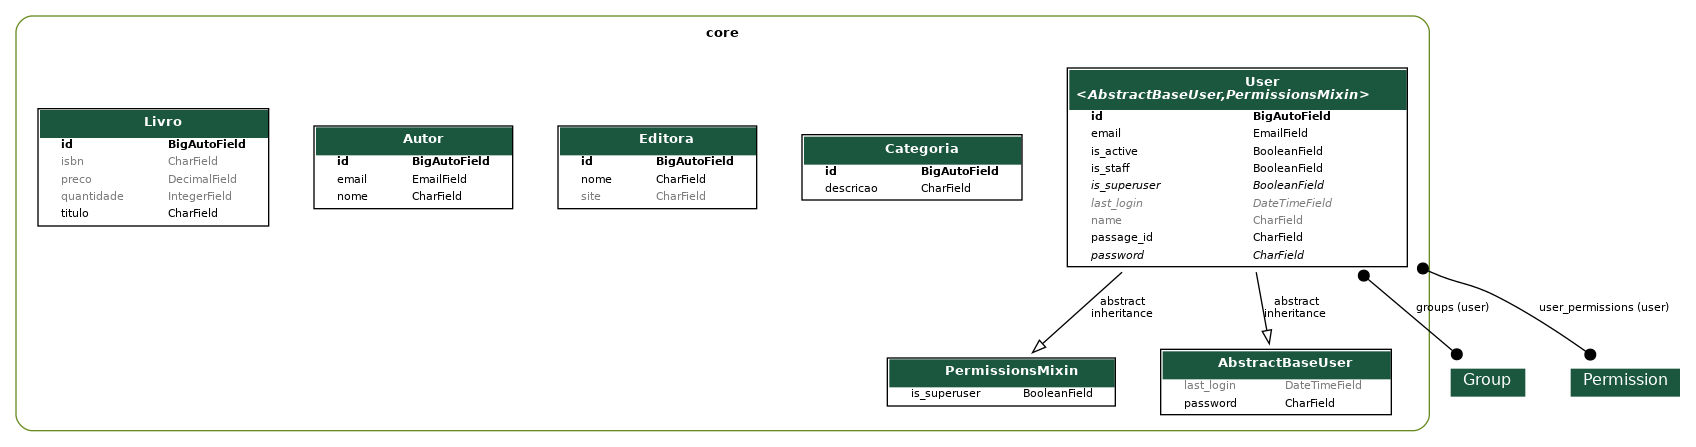
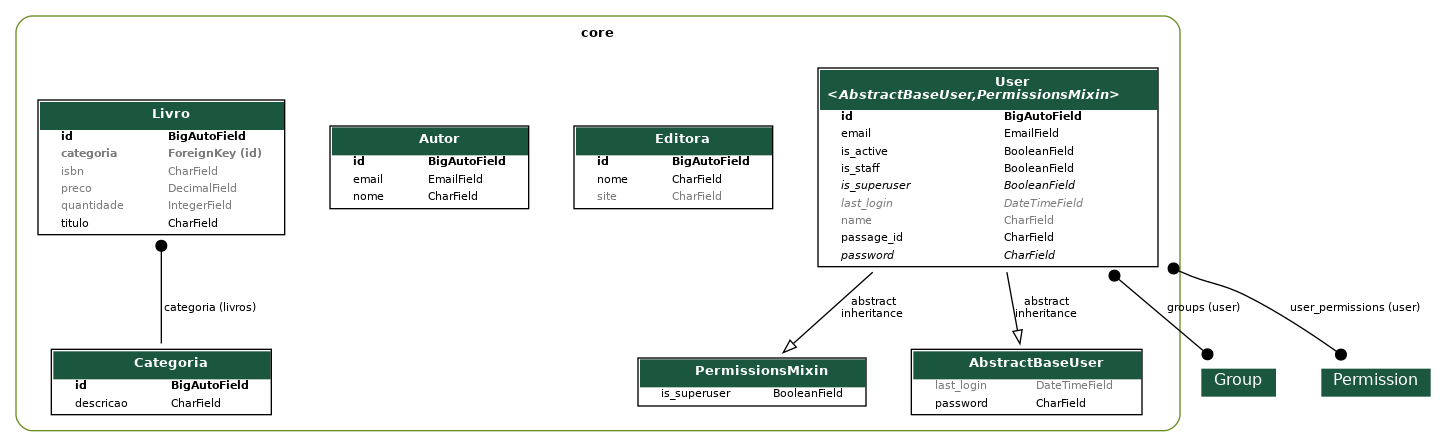
.

diff --git a/core/models/livro.py b/core/models/livro.py
@@ -1,10 +1,12 @@
 from django.db import models
+from .categoria import Categoria
 
 class Livro(models.Model):
     titulo = models.CharField(max_length=255)
     isbn = models.CharField(max_length=32, null=True, blank=True)
     quantidade = models.IntegerField(default=0,  null=True, blank=True)
     preco = models.DecimalField(max_digits=7, decimal_places=2, default=0, null=True, blank=True)
+    categoria = models.ForeignKey(Categoria, on_delete=models.PROTECT, related_name='livros', null=True,blank=True)
 
     def __str__(self):
         return f"({self.id}) {self.titulo} ({self.quantidade})"

diff --git a/core/migrations/0010_livro_categoria.py b/core/migrations/0010_livro_categoria.py
@@ -1,0 +1,19 @@
+# Generated by Django 5.1.7 on 2025-04-14 19:00
+
+import django.db.models.deletion
+from django.db import migrations, models
+
+
+class Migration(migrations.Migration):
+
+    dependencies = [
+        ('core', '0009_alter_autor_options'),
+    ]
+
+    operations = [
+        migrations.AddField(
+            model_name='livro',
+            name='categoria',
+            field=models.ForeignKey(blank=True, null=True, on_delete=django.db.models.deletion.PROTECT, related_name='livros', to='core.categoria'),
+        ),
+    ]
